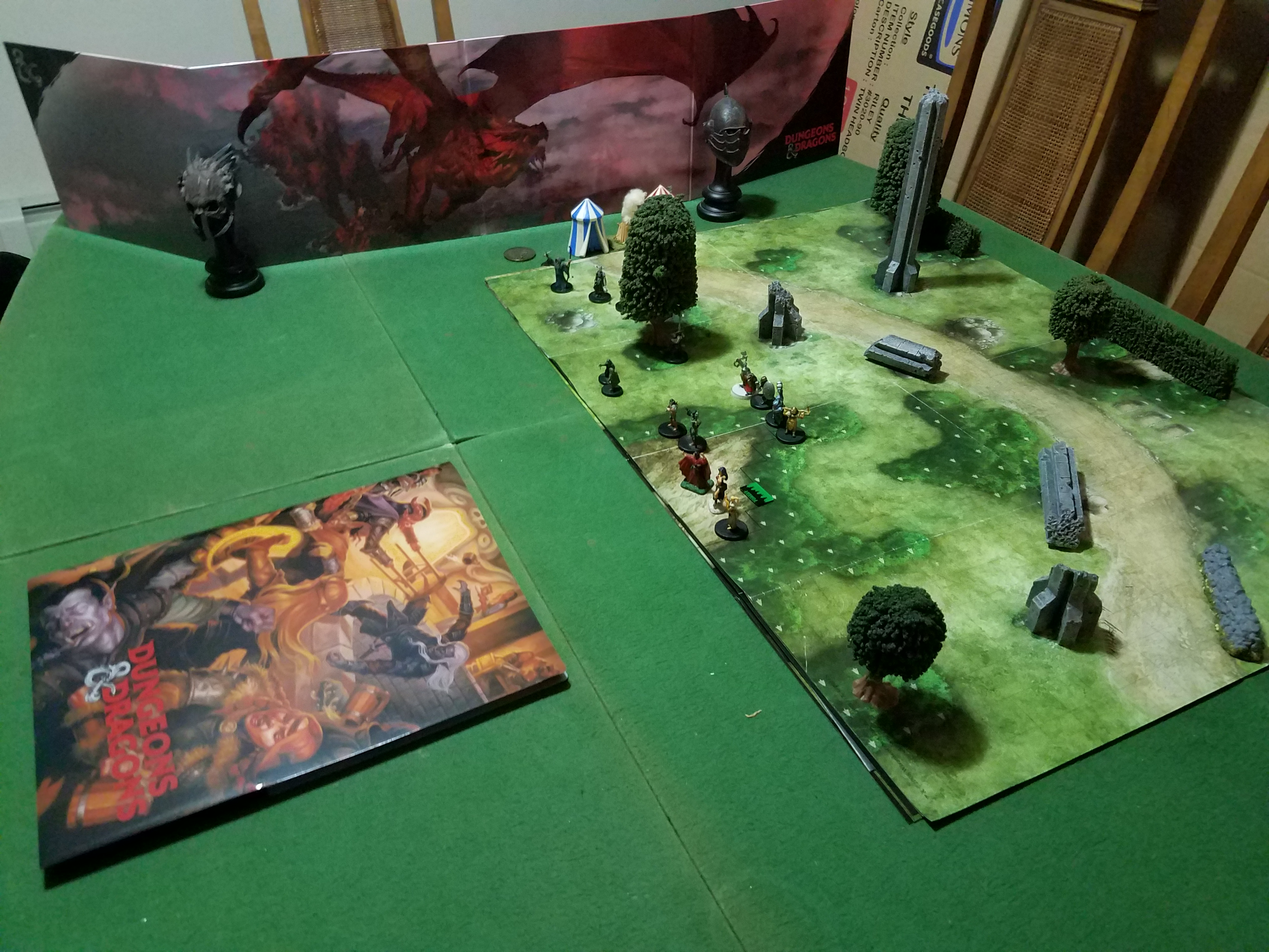
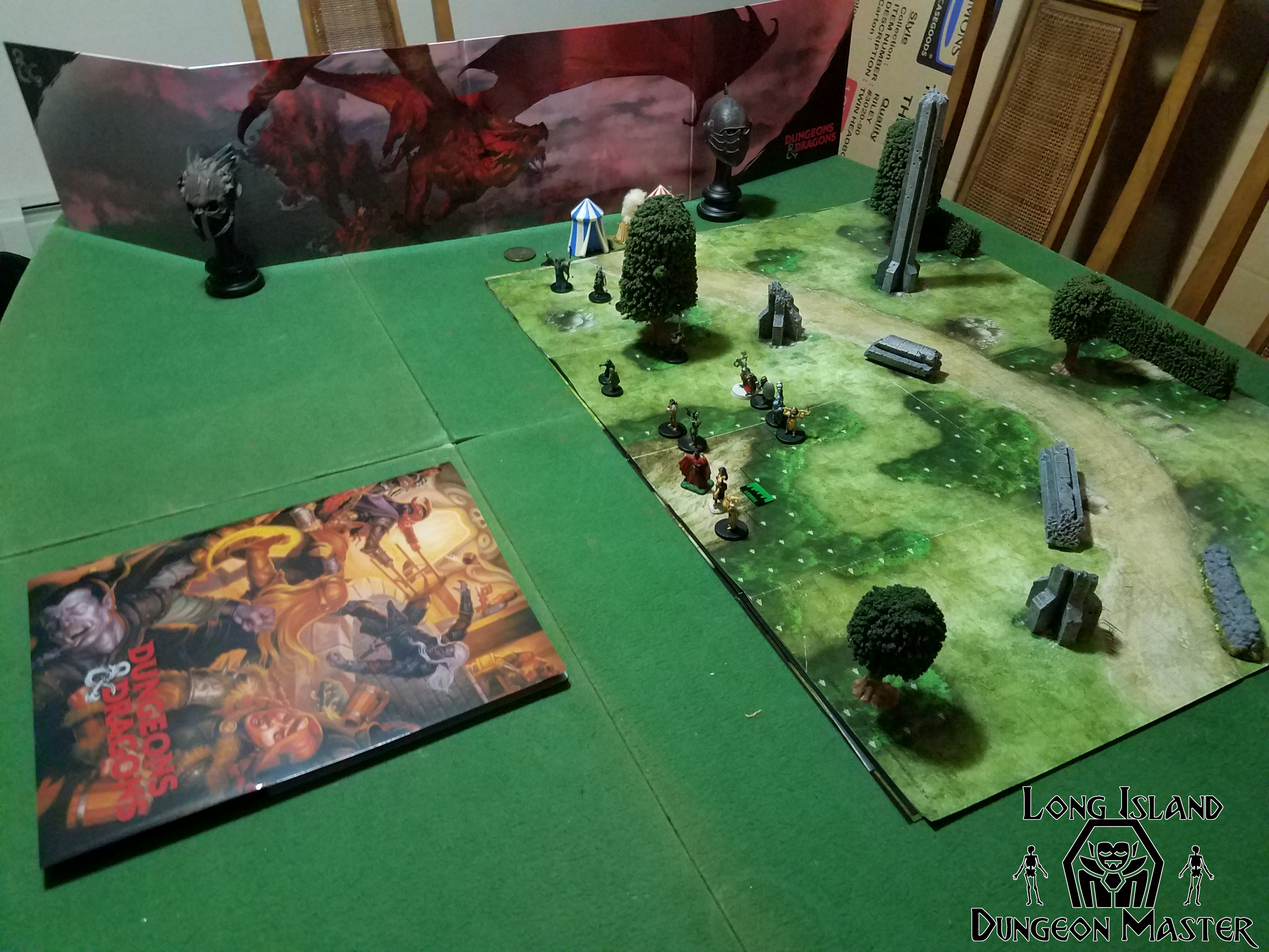
Added watermark to gallery images

Changed region(s): [[0.75, 0.8082, 1.0, 0.9947]]

diff --git a/index.html b/index.html
@@ -412,7 +412,7 @@
               <img class="d-block carousel-img" src="img/gallery/6.jpg" alt="slide6">
             </div>
               <div class="carousel-item">
-              <img class="d-block carousel-img" src="img/gallery/7.JPG" alt="slide7">
+              <img class="d-block carousel-img" src="img/gallery/7.jpg" alt="slide7">
             </div>
               <div class="carousel-item">
               <img class="d-block carousel-img" src="img/gallery/8.JPG" alt="slide8">
